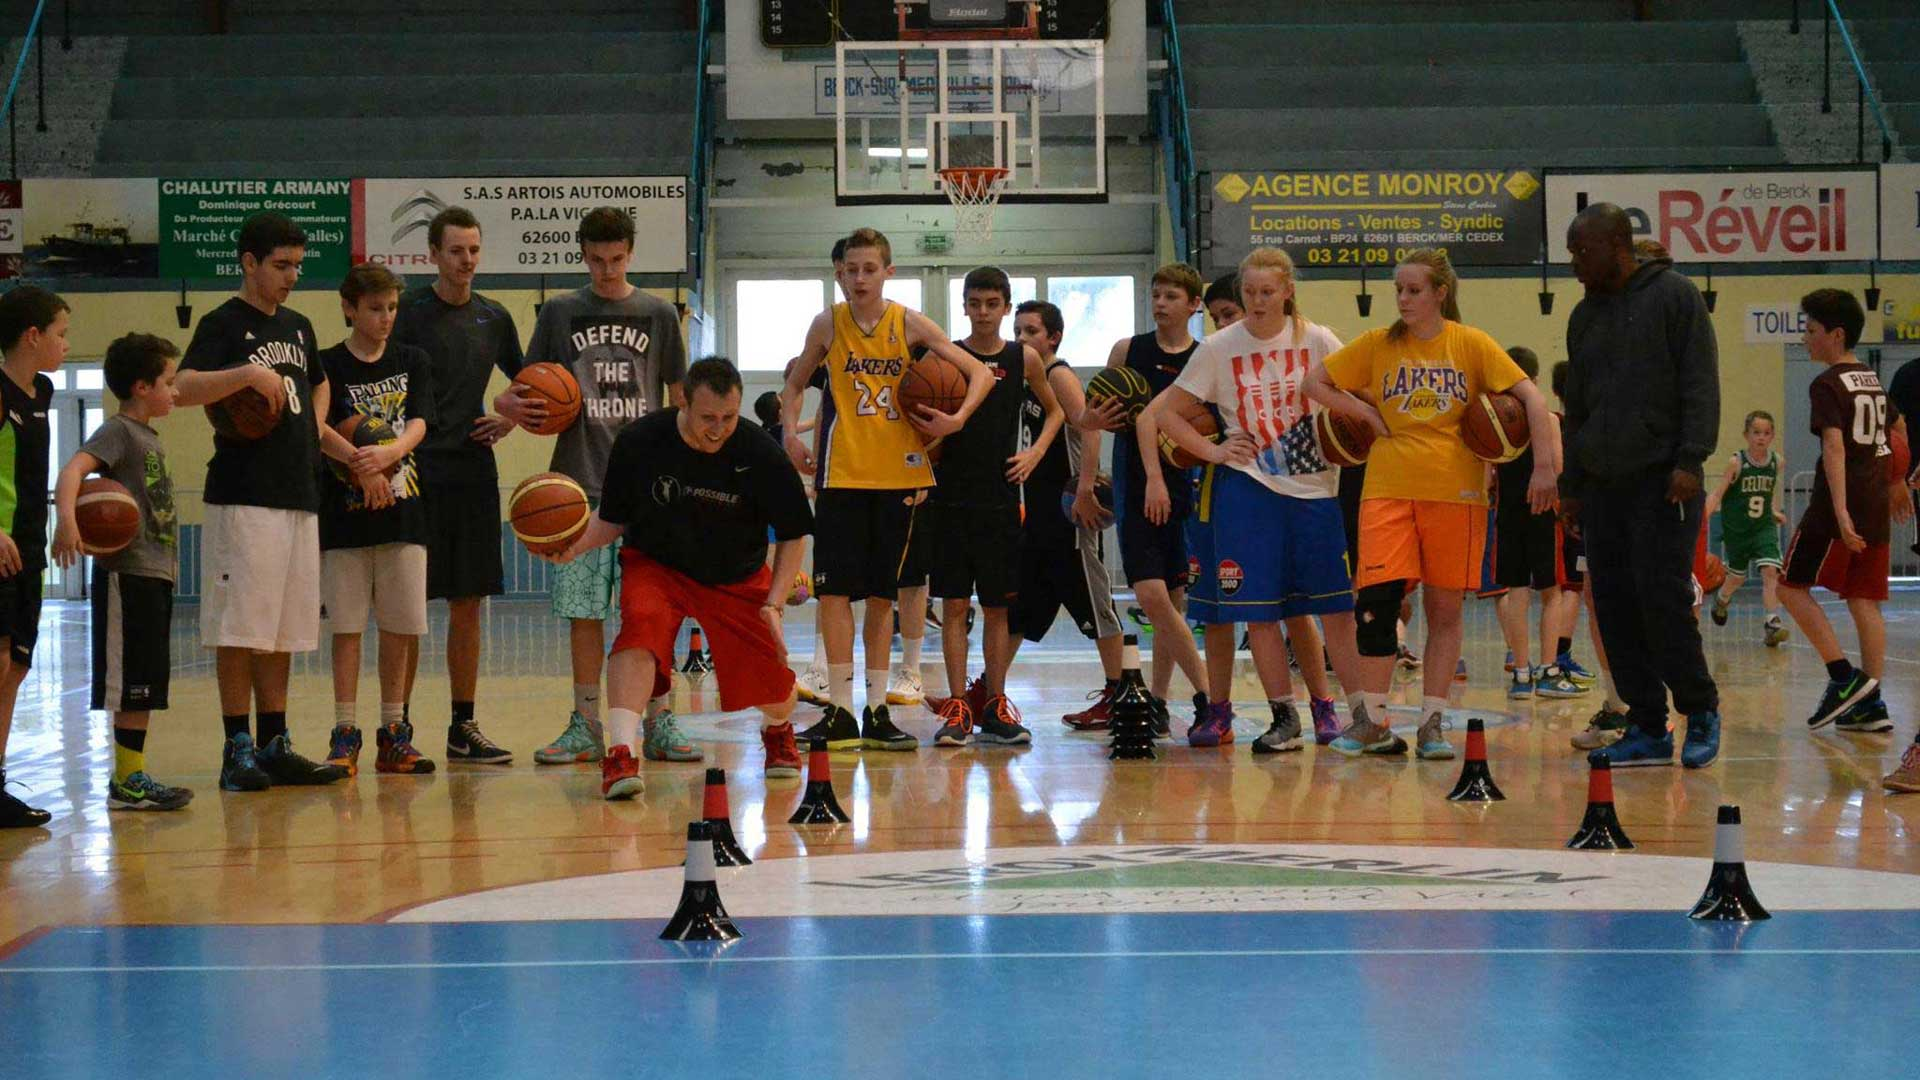
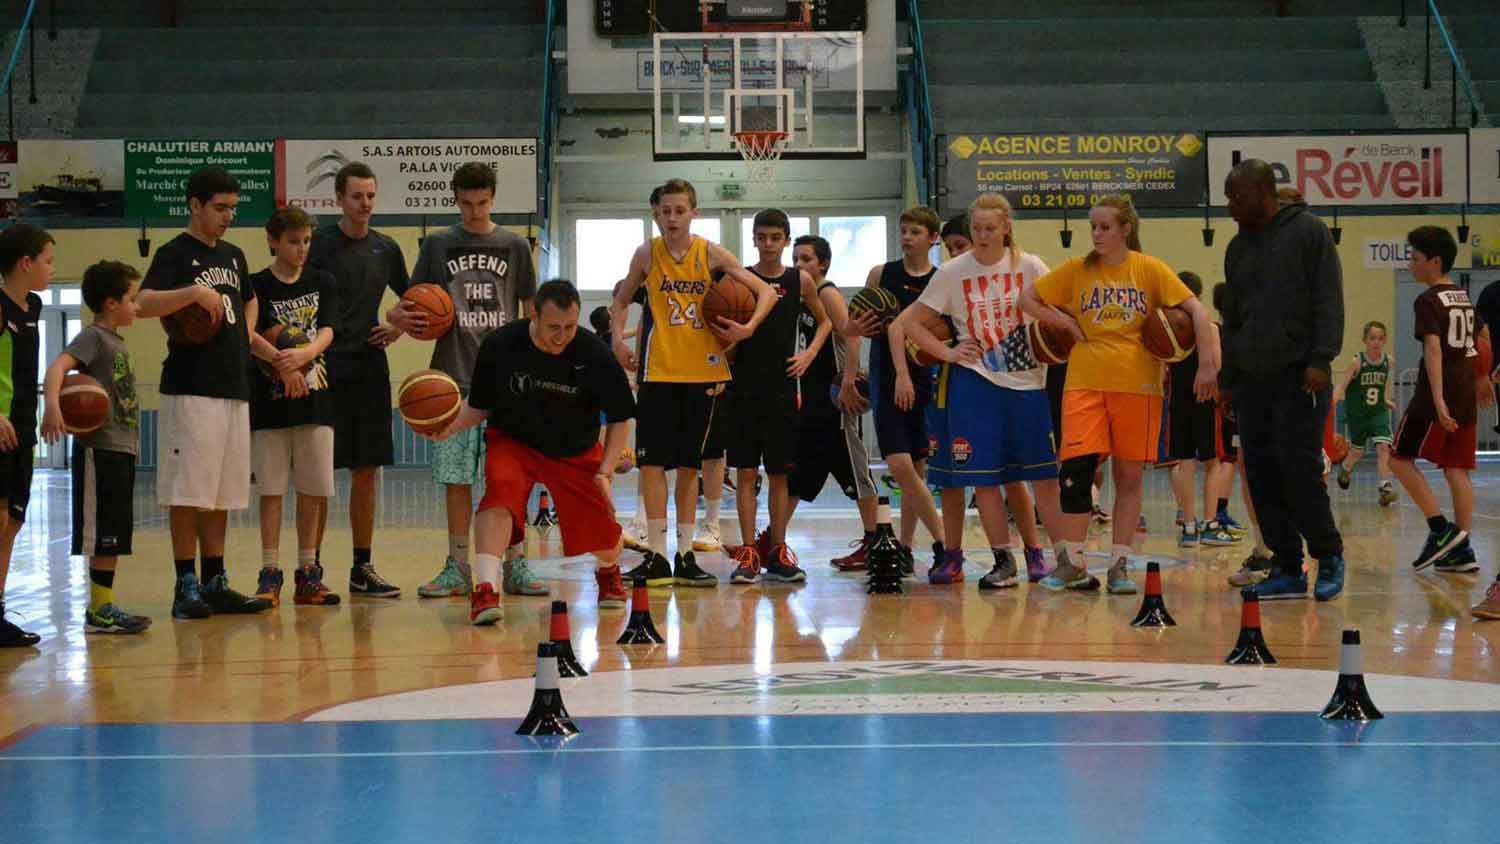
compressed images for faster load time

diff --git a/events.html b/events.html
@@ -201,12 +201,13 @@
                             </div>
                         </div>
 
-<!--EVENTS------------------------------------------------------------------------------------------------------------------------->
+<!--EVENTS-------------------------------------------------------------------------------------------------------------------------> 
 
-<!--THE GREAT GIVEAWAY-------------------------------------------------------------------------------------------------------------->
-    
     <div class="row">
-        <div class="the-great-giveaway">
+        <div class="events text-center">
+   <!--THE GREAT GIVEAWAY-------------------------------------------------------------------------------------------------------------->
+           
+            <div class="the-great-giveaway">
             <div class="col-sm-12">
                 <h1>The Great Giveaway</h1>
                 <div class="col-xs-12 col-sm-6">
@@ -285,14 +286,10 @@
 <div><a name="AAUFallLeague"></a></div>
 <!-------------------->
         </div>
-    
-    </div>
-    
-<!--LEU Fall League----------------------------------------------------------------------------------------------------------------->
         
-    <div class="row">
-        <div class="events text-center">
-        <div class="leu-fall-league">
+  <!--LEU Fall League----------------------------------------------------------------------------------------------------------------->
+                  
+            <div class="leu-fall-league">
           
                 <div class="col-sm-12">
  

diff --git a/css/main.css b/css/main.css
@@ -6084,7 +6084,7 @@ footer {
     margin: auto;
     width: 200px;
     opacity: 1;
-    transition: opacity 3s .8s; }
+    transition: opacity 3s 1.3s; }
     @media screen and (min-width: 768px) {
       .home-page .head-logo-section .logo {
         margin: auto;
@@ -6094,7 +6094,7 @@ footer {
     width: 300px;
     margin-bottom: -30px;
     opacity: 1;
-    transition: opacity 2s 2.5s; }
+    transition: opacity 2s 3s; }
     @media screen and (min-width: 768px) {
       .home-page .head-logo-section .get-in-the-game {
         margin-bottom: -60px; } }
@@ -6113,7 +6113,7 @@ footer {
     margin-top: 50px; }
   .home-page .head-logo-section span {
     opacity: 1;
-    transition: opacity .8s 4s; }
+    transition: opacity .8s 4.5s; }
 .home-page .news-feed {
   background-color: #000000; }
   @media screen and (min-width: 768px) {
@@ -6416,6 +6416,7 @@ footer {
     padding: 0px;
     padding-bottom: 30px; } }
 .events-page .events .leu-fall-league {
+  padding-top: 20px;
   background: linear-gradient(rgba(0, 0, 0, 0.65), rgba(0, 0, 0, 0.65)), url("../img/BackgroundImg/LEUbracket.jpg") no-repeat center top;
   -webkit-background-size: cover;
   -moz-background-size: cover;

diff --git a/js/site_js.js b/js/site_js.js
@@ -13,7 +13,7 @@ if (!alreadyDisplayed || alreadyDisplayed == 'false') {
 
     localStorage.setItem('alreadyDisplayed', 'true');
 
-  }, 3000); 
+  }, 10000); 
 }
 
 //home page scroll
